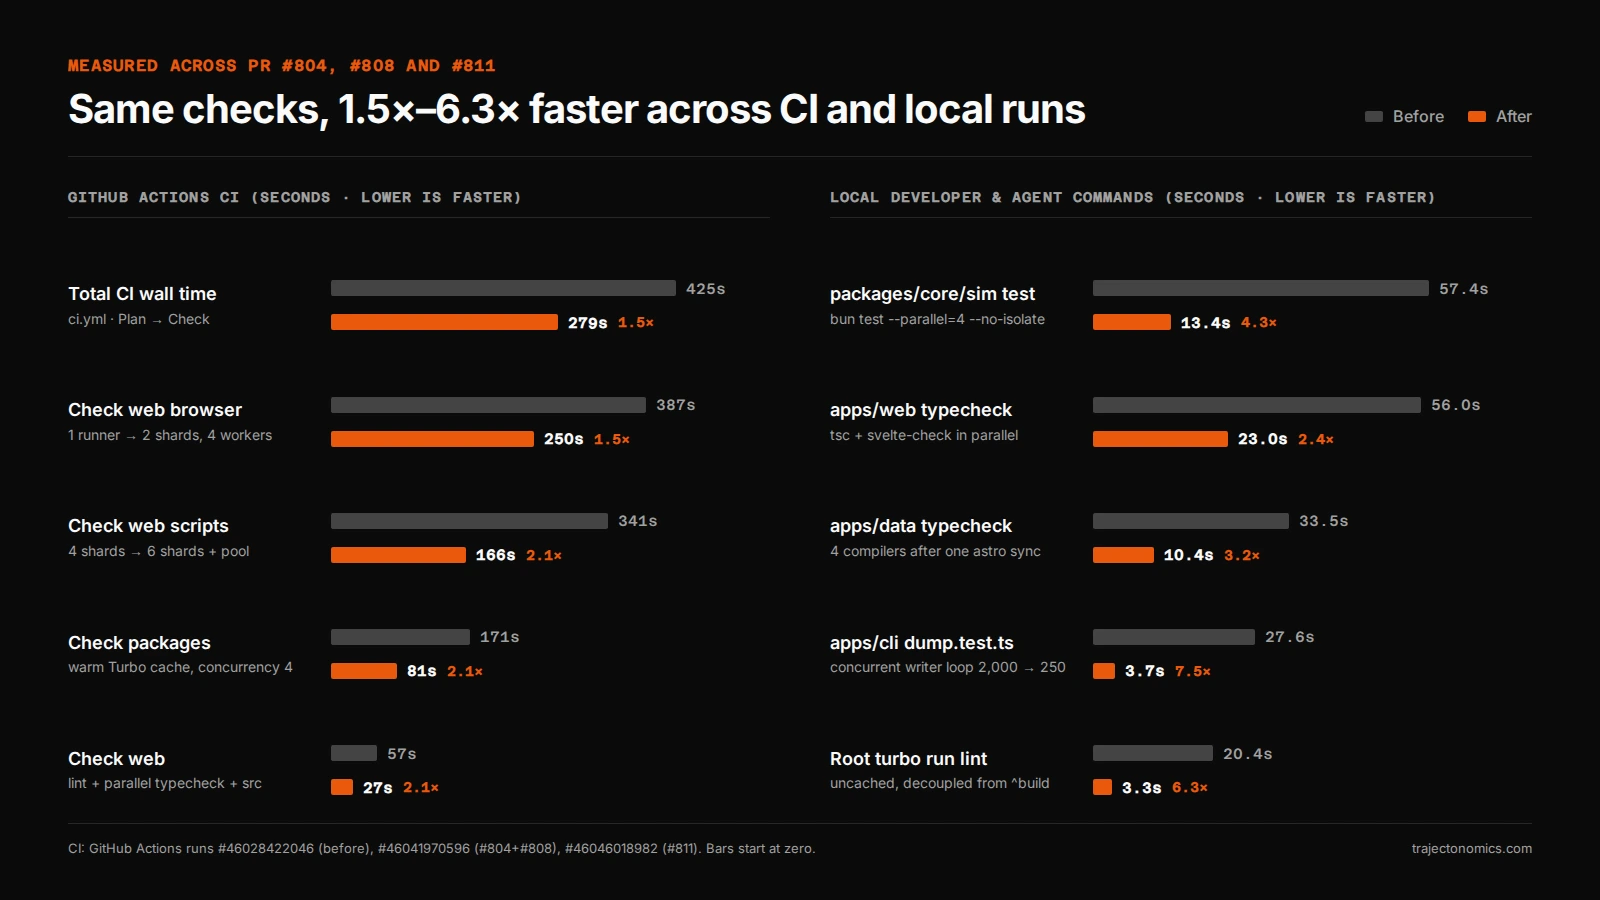
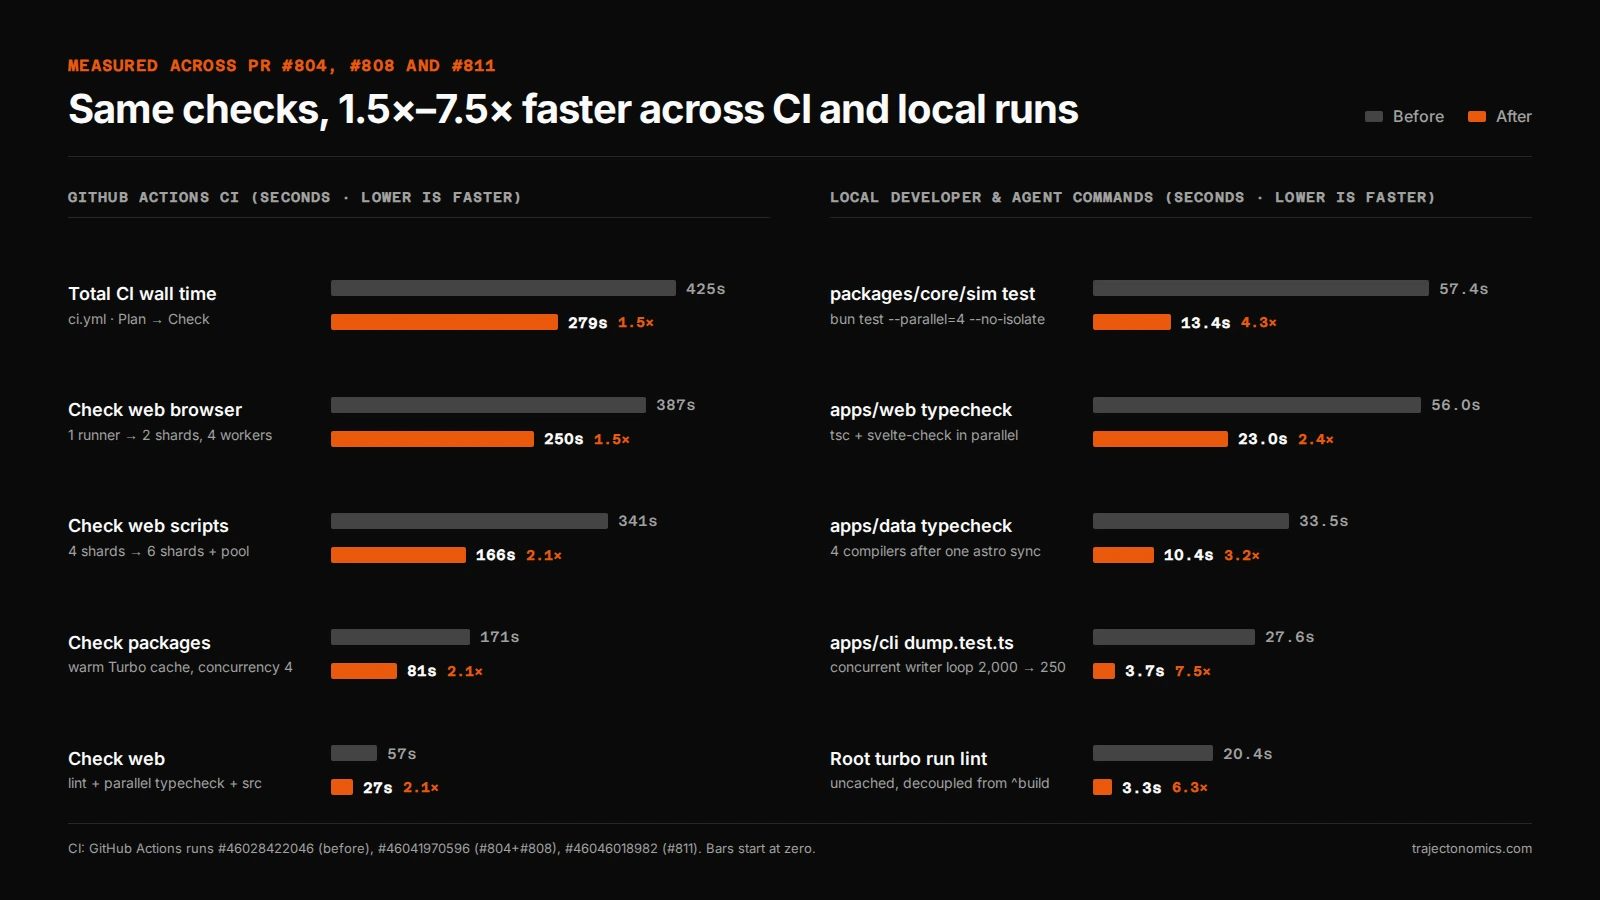
fix(blog): align chart headline range, CLI exit detail, and table rounding

Changed region(s): [[0.25, 0.0933, 0.6875, 0.1556]]

diff --git a/apps/blog/src/content/posts/faster-ci-and-local-checks/th.md b/apps/blog/src/content/posts/faster-ci-and-local-checks/th.md
@@ -51,16 +51,16 @@ cover:
 - **ปลด `lint` ออกจาก `^build`:** ถอด `"dependsOn": ["^build"]` ออกจาก `lint` ใน [`turbo.json`](https://github.com/trajectonomics/trajectonomics/blob/main/turbo.json) และ [`apps/site/turbo.json`](https://github.com/trajectonomics/trajectonomics/blob/main/apps/site/turbo.json) พร้อมผูกคำสั่ง `bun run format` ที่ root ผ่าน Turbo ทำให้การรัน `turbo run lint --force --concurrency=4` แบบไม่ใช้ cache ลดจาก **20.44 วินาที** (27 task) เหลือ **3.26 วินาที** (18 task) หรือเร็วขึ้น **6.3 เท่า**
 - **ตัวรันคำสั่งขนานแบบ buffer log:** เขียน [`tooling/scripts/run-parallel.ts`](https://github.com/trajectonomics/trajectonomics/blob/main/tooling/scripts/run-parallel.ts) เพื่อรันคำสั่งอิสระพร้อมกัน เก็บ stdout/stderr ของแต่ละตัวไว้พิมพ์เรียงลำดับไม่ให้ปนกัน แสดงแบนเนอร์เมื่อมีตัวใดพัง และส่งต่อ `SIGINT`/`SIGTERM` ไปยัง child process
 - **รัน compiler และขั้นตรวจพร้อมกัน:** รัน `tsc`, `svelte-check` และ `astro check` ขนานกันใน `typecheck` (ลด `apps/web` จาก `55.96` เหลือ `23.00` วินาที และ `apps/data` จาก `33.51` เหลือ `10.39` วินาที) และรัน `lint`, `typecheck` กับ `test` พร้อมกันใน `check` ก่อนเข้าสู่ขั้น build และ verify
-- **เร่ง guard ตรวจลิงก์ repo เก่า:** เปลี่ยน [`tooling/guards/archived-links.test.ts`](https://github.com/trajectonomics/trajectonomics/blob/main/tooling/guards/archived-links.test.ts) จากเดิมที่อ่านไฟล์ที่ git track ทุกไฟล์ (รวมรูปและฟอนต์) ซ้ำสองรอบเรียงกัน มาเป็นการคัดไฟล์ข้อความที่เข้าข่ายด้วย `git grep -I -l -F -z` แล้ว memoize ผลลัพธ์ เปลี่ยน test ที่เคย timeout 5 วินาทีตอนโหลดสูงให้เหลือ **44.5 มิลลิวินาที**
+- **เร่ง guard ตรวจลิงก์ repo เก่า:** เปลี่ยน [`tooling/guards/archived-links.test.ts`](https://github.com/trajectonomics/trajectonomics/blob/main/tooling/guards/archived-links.test.ts) จากเดิมที่อ่านไฟล์ที่ git track ทุกไฟล์ (รวมรูปและฟอนต์) ซ้ำสองรอบเรียงกัน มาเป็นการคัดไฟล์ข้อความที่เข้าข่ายด้วย `git grep -I -l -F -z` แล้ว memoize ผลลัพธ์ เปลี่ยนการสแกนทั้ง repo ที่กินเวลากว่า 7 วินาที (จนชน timeout 5 วินาทีของ Bun ตอนโหลดสูง) ให้เหลือ **44.5 มิลลิวินาที**
 
 ## 4 ปัญหาจริงที่โผล่เมื่อเปิดรันแบบขนาน
 
 การเร่งความเร็วจะมีประโยชน์ก็ต่อเมื่อผลลัพธ์ยังนิ่งและทำซ้ำได้เหมือนเดิม พอเราเปิดรันขนานจริง มี bug ซ่อนอยู่ 4 ตัวที่การรันทีละขั้นตอนเคยกลบไว้:
 
 1. **`FORCE_COLOR=1` พ่นรหัสสี ANSI ปนลง JSON ใน stderr:** เมื่อ Turbo รันใน PTY, `console.error` ของ Bun จะใส่รหัสสีแดงครอบ error envelope ทำให้ test ที่ parse JSON จาก stderr พังเมื่อรัน `--parallel` แก้ด้วยการเขียน stderr ตรงผ่าน `writeSync(2, ...)` ใน [`apps/cli/src/index.ts`](https://github.com/trajectonomics/trajectonomics/blob/main/apps/cli/src/index.ts)
-2. **ห้ามแทน `console.log` ด้วย `process.stdout.write` ก่อน `process.exit()`:** ตอนแก้ stderr เราเผลอเปลี่ยน stdout ไปด้วย และเจอทันทีว่า JSON ที่ใหญ่กว่า 64 KB จาก `traj projection run --json` ถูกตัดขาดกลางทางเมื่อ pipe ปิด การเก็บ `console.log` ไว้กับ stdout (และใช้ `process.exitCode` แทน `process.exit()`) ปิดปัญหานี้สนิท
+2. **ห้ามแทน `console.log` ด้วย `process.stdout.write` ก่อน `process.exit()`:** ตอนแก้ stderr เราเผลอเปลี่ยน stdout ไปด้วย และเจอทันทีว่า JSON ที่ใหญ่กว่า 64 KB จาก `traj projection run --json` ถูกตัดขาดกลางทางเมื่อ pipe ปิด การเก็บ `console.log` ไว้กับ stdout ของ CLI (และใช้ `process.exitCode` แทน `process.exit()` ใน [`tooling/scripts/run-parallel.ts`](https://github.com/trajectonomics/trajectonomics/blob/main/tooling/scripts/run-parallel.ts)) ปิดปัญหานี้สนิท
 3. **`astro check --no-sync` ไม่ได้ปิด sync จริง:** ตัว parse flag `mri` ใน Astro 7.4 แปลง `--no-sync` เป็น `{ sync: false }` แต่โค้ดของ `astro check` ดันเช็ก `flags.noSync` ทำให้ `astro check` ยังเขียนทับ `.astro/types.d.ts` กลางคันระหว่างที่ `tsc` กำลังอ่านอยู่ พอเปลี่ยนเป็น `--noSync` (camelCase) หลังสั่ง `astro sync` รอบเดียวล่วงหน้า ทั้ง race condition และเวลา sync ซ้ำ 2–6 วินาทีต่อแอปก็หายไปพร้อมกัน
-4. **test ที่ช้าจะแอบซ่อนจนกว่าจะแย่ง CPU กัน:** การอ่านไฟล์ทั้ง repo สองรอบใน `archived-links.test.ts` เคยรอดฉิวเฉียดตอน `--concurrency=2` แต่พอรัน 4 แพ็กเกจพร้อมกันก็ชนเพดาน timeout 5 วินาทีของ Bun ทันที การคัดกรองด้วย `git grep -I` ทำให้ guard นี้เร็วขึ้นกว่า 150 เท่า
+4. **test ที่ช้าจะแอบซ่อนจนกว่าจะแย่ง CPU กัน:** การอ่านไฟล์ทั้ง repo สองรอบใน `archived-links.test.ts` (รวมกว่า 7 วินาทีในสองเคส) เคยรอดฉิวเฉียดจากเพดาน timeout 5 วินาทีต่อเคสตอน `--concurrency=2` แต่พอรัน 4 แพ็กเกจพร้อมกันก็ timeout ทันที การคัดกรองด้วย `git grep -I` และ memoize ทำให้ guard นี้เร็วขึ้นกว่า 150 เท่า
 
 ## สรุปตัวเลขที่วัดได้จริง
 
@@ -73,15 +73,15 @@ cover:
 | `apps/cli` `dump.test.ts` | 27.6 วิ | **3.69 วิ** | **7.5×** | [PR #804](https://github.com/trajectonomics/trajectonomics/pull/804) |
 | `tooling/guards` `archived-links.test.ts` | >7 วิ (timeout) | **44.5 มิลลิวินาที** | **>150×** | [PR #811](https://github.com/trajectonomics/trajectonomics/pull/811) |
 | CI `Check packages` (warm cache) | 171 วิ | **81 วิ** | **2.1×** | [#46028422046](https://github.com/trajectonomics/trajectonomics/actions/runs/46028422046) → [#46041970596](https://github.com/trajectonomics/trajectonomics/actions/runs/46041970596) |
-| CI `Check web` | 57 วิ | **27–31 วิ** | **~2.0×** | [#46028422046](https://github.com/trajectonomics/trajectonomics/actions/runs/46028422046) → [#46041970596](https://github.com/trajectonomics/trajectonomics/actions/runs/46041970596) |
-| CI `Check web scripts` (shard ช้าสุด) | 341 วิ | **166–168 วิ** | **2.0×** | [#46028422046](https://github.com/trajectonomics/trajectonomics/actions/runs/46028422046) → [#46046018982](https://github.com/trajectonomics/trajectonomics/actions/runs/46046018982) |
+| CI `Check web` | 57 วิ | **27–31 วิ** | **1.8–2.1×** | [#46028422046](https://github.com/trajectonomics/trajectonomics/actions/runs/46028422046) → [#46041970596](https://github.com/trajectonomics/trajectonomics/actions/runs/46041970596) |
+| CI `Check web scripts` (shard ช้าสุด) | 341 วิ | **166–168 วิ** | **2.0–2.1×** | [#46028422046](https://github.com/trajectonomics/trajectonomics/actions/runs/46028422046) → [#46046018982](https://github.com/trajectonomics/trajectonomics/actions/runs/46046018982) |
 | CI `Check web browser` (shard ช้าสุด) | 387 วิ | **249–250 วิ** | **1.55×** | [#46028422046](https://github.com/trajectonomics/trajectonomics/actions/runs/46028422046) → [#46046018982](https://github.com/trajectonomics/trajectonomics/actions/runs/46046018982) |
 | CI `Browser checks (site)` | 273 วิ | **160–168 วิ** | **1.6–1.7×** | [#46036536078](https://github.com/trajectonomics/trajectonomics/actions/runs/46036536078) → [#46052307647](https://github.com/trajectonomics/trajectonomics/actions/runs/46052307647) |
 | เวลา CI รวม (`ci.yml`) | 425 วิ (7 นาที 05 วิ) | **279–280 วิ (4 นาที 40 วิ)** | **1.52×** | [#46028422046](https://github.com/trajectonomics/trajectonomics/actions/runs/46028422046) → [#46041970596](https://github.com/trajectonomics/trajectonomics/actions/runs/46041970596) |
 
 ## ลองรันวัดด้วยตัวเอง
 
-ใครอยากลองจับเวลาบนเครื่อง สามารถรันคำสั่งชุดนี้บน [`trajectonomics/trajectonomics`](https://github.com/trajectonomics/trajectonomics) ได้เลย:
+บนโค้ดของ [`trajectonomics/trajectonomics`](https://github.com/trajectonomics/trajectonomics) หลังรัน `bun install && bun run build` แล้ว สามารถลองจับเวลาคำสั่งชุดนี้บนเครื่องได้ทันที:
 
 ```sh
 DO_NOT_TRACK=1 bunx turbo run lint --force --concurrency=4

diff --git a/apps/blog/src/content/posts/faster-ci-and-local-checks/en.md b/apps/blog/src/content/posts/faster-ci-and-local-checks/en.md
@@ -51,16 +51,16 @@ We split the work into three small, independently revertible pull requests so ea
 - **Uncoupled `lint` from `^build`:** Dropped `"dependsOn": ["^build"]` from `lint` in [`turbo.json`](https://github.com/trajectonomics/trajectonomics/blob/main/turbo.json) and [`apps/site/turbo.json`](https://github.com/trajectonomics/trajectonomics/blob/main/apps/site/turbo.json), and wired root `bun run format` through Turbo. An uncached root `turbo run lint --force --concurrency=4` dropped from **20.44s** (27 tasks) to **3.26s** (18 tasks)—**6.3× faster**.
 - **Buffered parallel step runner:** Added [`tooling/scripts/run-parallel.ts`](https://github.com/trajectonomics/trajectonomics/blob/main/tooling/scripts/run-parallel.ts), a small Bun script that runs independent commands concurrently, buffers each command's output so logs never interleave, prints failure banners deterministically, and forwards `SIGINT`/`SIGTERM` to children.
 - **Parallel compilers and checks:** Ran `tsc`, `svelte-check`, and `astro check` in parallel inside `typecheck` (cutting `apps/web` `typecheck` from `55.96s` to `23.00s` and `apps/data` `typecheck` from `33.51s` to `10.39s`), and ran `lint`, `typecheck` and `test` in parallel inside `check` before the build and verify steps.
-- **Fast archived-link guard:** Switched [`tooling/guards/archived-links.test.ts`](https://github.com/trajectonomics/trajectonomics/blob/main/tooling/guards/archived-links.test.ts) from reading every tracked file (including binary images and fonts) twice sequentially to prefiltering text candidates with `git grep -I -l -F -z` and memoizing results—turning a 5-second timeout flake under load into **44.5ms**.
+- **Fast archived-link guard:** Switched [`tooling/guards/archived-links.test.ts`](https://github.com/trajectonomics/trajectonomics/blob/main/tooling/guards/archived-links.test.ts) from reading every tracked file (including binary images and fonts) twice sequentially to prefiltering text candidates with `git grep -I -l -F -z` and memoizing results—turning a `>7s` full-repo scan (which hit Bun's 5-second timeout under load) into **44.5ms**.
 
 ## Four real bugs concurrency surfaced
 
 Speeding up checks is only useful if determinism stays rock-solid. Running tasks concurrently surfaced four subtle bugs that sequential execution had hidden:
 
 1. **`FORCE_COLOR=1` leaked ANSI escapes into JSON stderr.** Under Turbo's PTY, Bun's `console.error` wrapped error envelopes in ANSI red, breaking CLI JSON tests when run under `--parallel`. Writing stderr directly with `writeSync(2, ...)` in [`apps/cli/src/index.ts`](https://github.com/trajectonomics/trajectonomics/blob/main/apps/cli/src/index.ts) fixed it cleanly.
-2. **Never swap `console.log` for `process.stdout.write` right before `process.exit()`.** While fixing stderr, we briefly tried `process.stdout.write` on stdout too—and immediately truncated >64 KB `traj projection run --json` payloads on pipe exit. Keeping `console.log` for stdout (and setting `process.exitCode` instead of `process.exit()`) prevented truncated JSON.
+2. **Never swap `console.log` for `process.stdout.write` right before `process.exit()`.** While fixing stderr, we briefly tried `process.stdout.write` on stdout too—and immediately truncated >64 KB `traj projection run --json` payloads on pipe exit. Keeping `console.log` for CLI stdout (and setting `process.exitCode` instead of `process.exit()` in [`tooling/scripts/run-parallel.ts`](https://github.com/trajectonomics/trajectonomics/blob/main/tooling/scripts/run-parallel.ts)) prevented truncated output.
 3. **`astro check --no-sync` still ran `astro sync`.** Astro 7.4's `mri` CLI parser turns `--no-sync` into `{ sync: false }`, whereas `astro check` inspects `flags.noSync`! That meant `astro check` was still rewriting `.astro/types.d.ts` right while `tsc` read it. Passing `--noSync` (camelCase) after a single upfront `astro sync` eliminated both the race and 2–6 seconds of duplicate work per Astro app.
-4. **Slow tests hide until CPU contention rises.** Reading thousands of tracked files twice in `archived-links.test.ts` barely passed when `Check packages` ran at `--concurrency=2`, then hit Bun's 5-second timeout once 4 packages ran together. Prefiltering with `git grep -I` made the guard >150× faster.
+4. **Slow tests hide until CPU contention rises.** Reading thousands of tracked files twice in `archived-links.test.ts` (`>7s` across the two assertions) barely slipped under Bun's 5-second per-test timeout when `Check packages` ran at `--concurrency=2`, then timed out once 4 packages ran together. Prefiltering with `git grep -I` and memoizing made the guard >150× faster.
 
 ## Measured results
 
@@ -73,15 +73,15 @@ Speeding up checks is only useful if determinism stays rock-solid. Running tasks
 | `apps/cli` `dump.test.ts` | 27.6s | **3.69s** | **7.5×** | [PR #804](https://github.com/trajectonomics/trajectonomics/pull/804) |
 | `tooling/guards` `archived-links.test.ts` | >7s (timeout) | **44.5ms** | **>150×** | [PR #811](https://github.com/trajectonomics/trajectonomics/pull/811) |
 | CI `Check packages` (warm cache) | 171s | **81s** | **2.1×** | [#46028422046](https://github.com/trajectonomics/trajectonomics/actions/runs/46028422046) → [#46041970596](https://github.com/trajectonomics/trajectonomics/actions/runs/46041970596) |
-| CI `Check web` | 57s | **27–31s** | **~2.0×** | [#46028422046](https://github.com/trajectonomics/trajectonomics/actions/runs/46028422046) → [#46041970596](https://github.com/trajectonomics/trajectonomics/actions/runs/46041970596) |
-| CI `Check web scripts` (slowest shard) | 341s | **166–168s** | **2.0×** | [#46028422046](https://github.com/trajectonomics/trajectonomics/actions/runs/46028422046) → [#46046018982](https://github.com/trajectonomics/trajectonomics/actions/runs/46046018982) |
+| CI `Check web` | 57s | **27–31s** | **1.8–2.1×** | [#46028422046](https://github.com/trajectonomics/trajectonomics/actions/runs/46028422046) → [#46041970596](https://github.com/trajectonomics/trajectonomics/actions/runs/46041970596) |
+| CI `Check web scripts` (slowest shard) | 341s | **166–168s** | **2.0–2.1×** | [#46028422046](https://github.com/trajectonomics/trajectonomics/actions/runs/46028422046) → [#46046018982](https://github.com/trajectonomics/trajectonomics/actions/runs/46046018982) |
 | CI `Check web browser` (slowest shard) | 387s | **249–250s** | **1.55×** | [#46028422046](https://github.com/trajectonomics/trajectonomics/actions/runs/46028422046) → [#46046018982](https://github.com/trajectonomics/trajectonomics/actions/runs/46046018982) |
 | CI `Browser checks (site)` | 273s | **160–168s** | **1.6–1.7×** | [#46036536078](https://github.com/trajectonomics/trajectonomics/actions/runs/46036536078) → [#46052307647](https://github.com/trajectonomics/trajectonomics/actions/runs/46052307647) |
 | CI total wall time (`ci.yml`) | 425s (7m 05s) | **279–280s (4m 40s)** | **1.52×** | [#46028422046](https://github.com/trajectonomics/trajectonomics/actions/runs/46028422046) → [#46041970596](https://github.com/trajectonomics/trajectonomics/actions/runs/46041970596) |
 
 ## Check it yourself
 
-You can repeat the local timings on any checkout of [`trajectonomics/trajectonomics`](https://github.com/trajectonomics/trajectonomics):
+On a checkout of [`trajectonomics/trajectonomics`](https://github.com/trajectonomics/trajectonomics), after `bun install && bun run build`, you can repeat the local timings directly:
 
 ```sh
 DO_NOT_TRACK=1 bunx turbo run lint --force --concurrency=4
